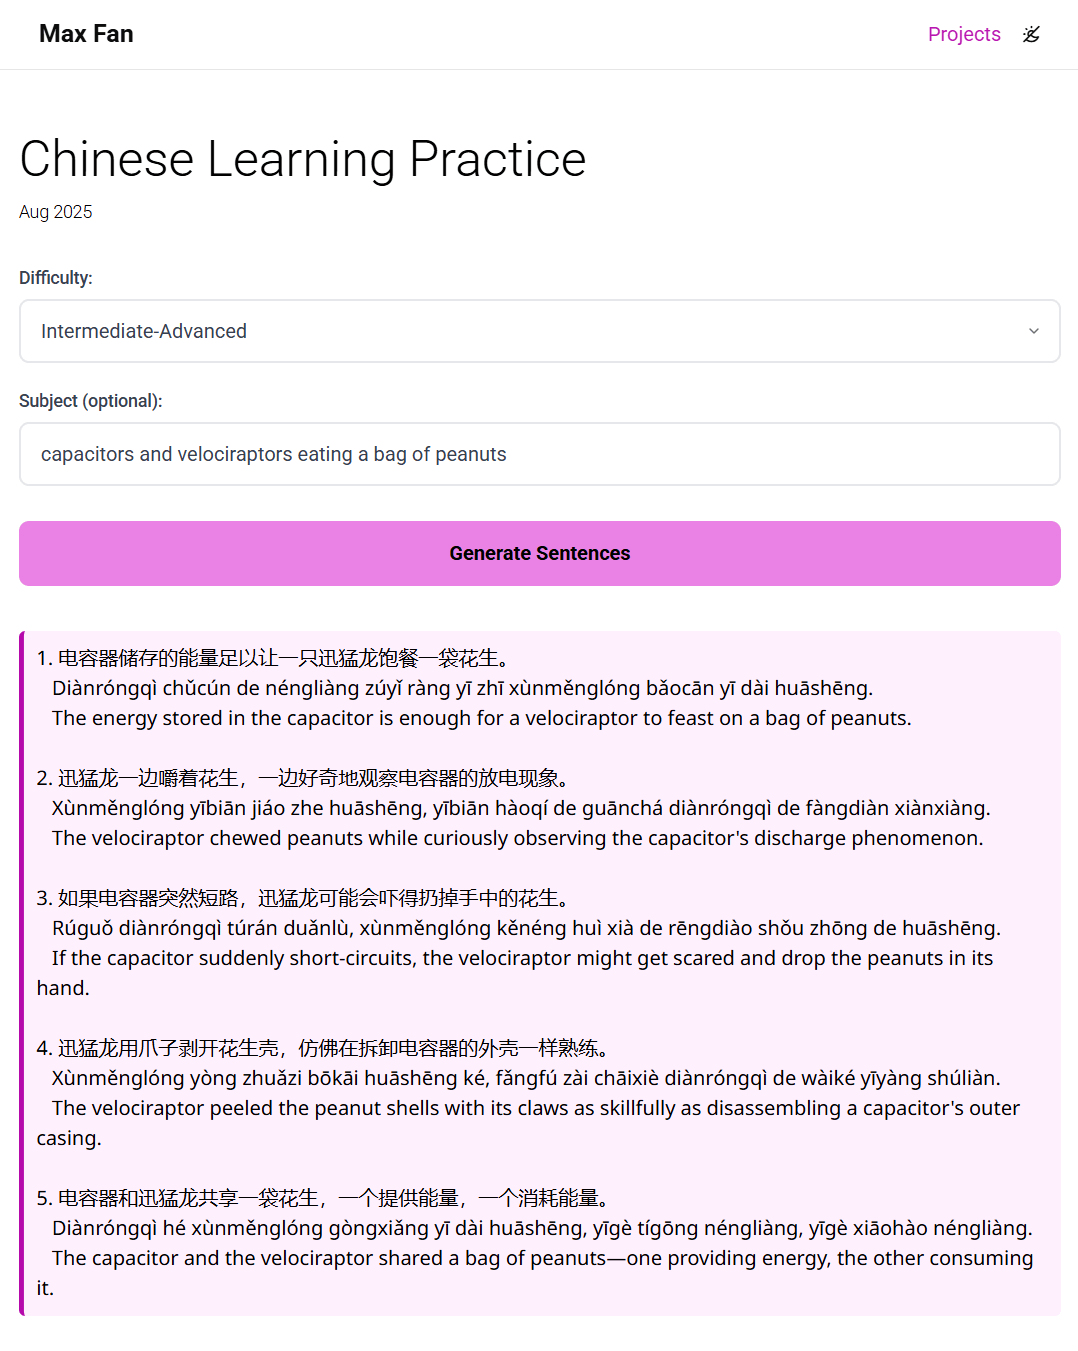
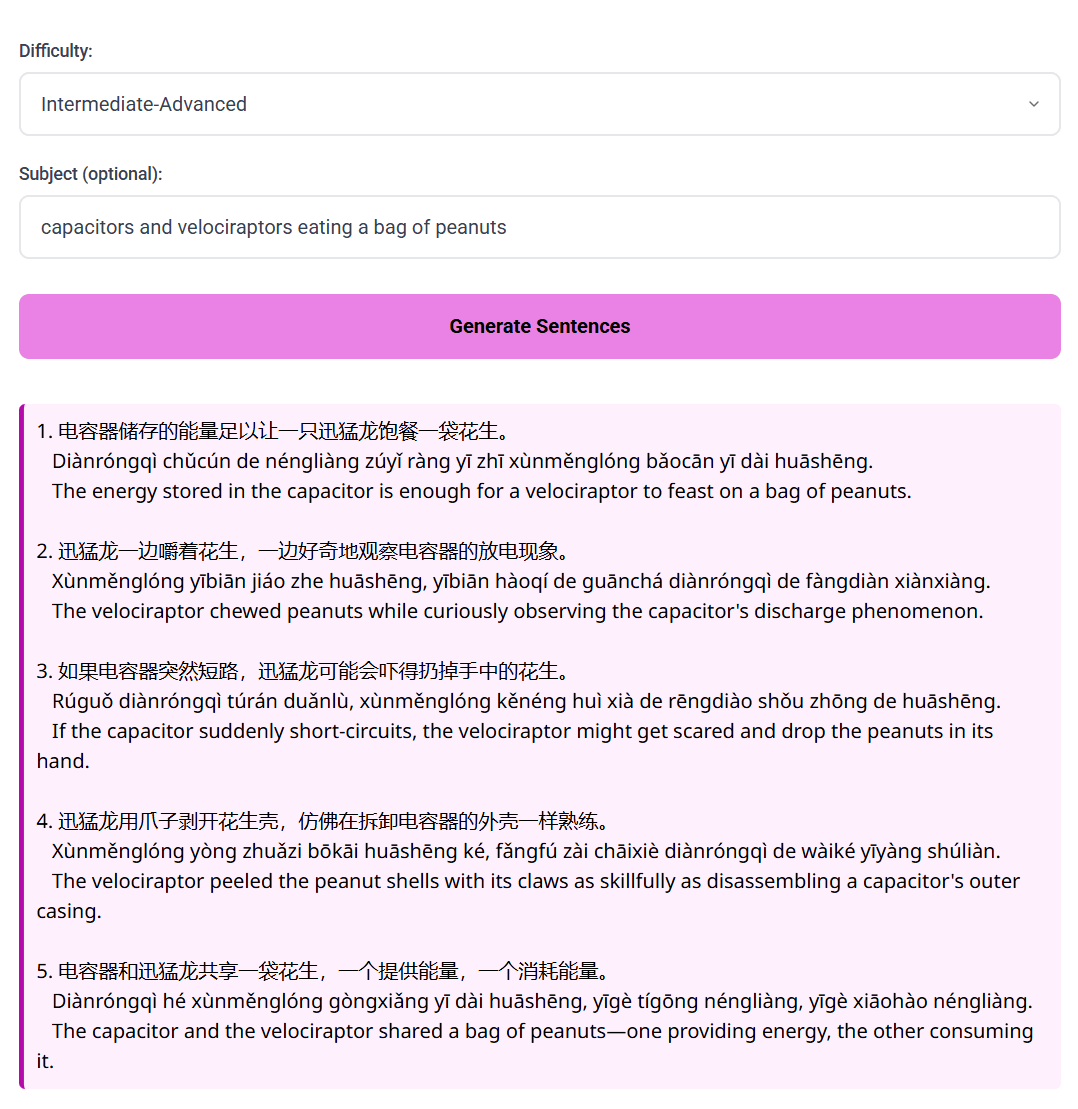
Hide project from homepage for now

diff --git a/_projects/chinese-learning-practice.md b/_projects/chinese-learning-practice.md
@@ -4,7 +4,7 @@ title: Chinese Learning Practice
 description: Aug 2025
 img: assets/img/chinese_practice.png
 importance: 3
-category: Electromechanical
+category: Secret
 related_publications: false
 ---
 
